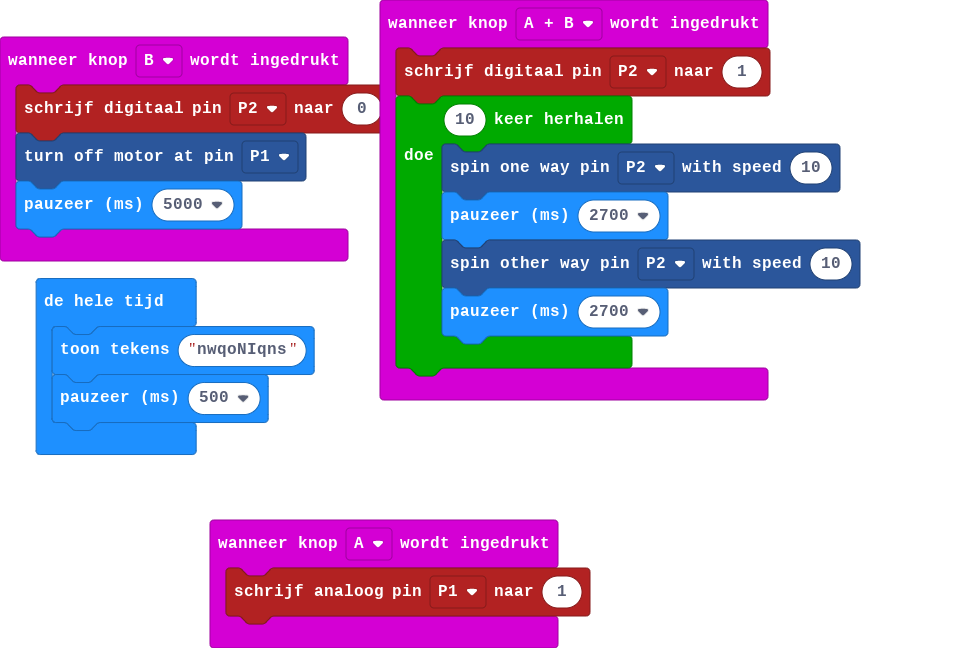
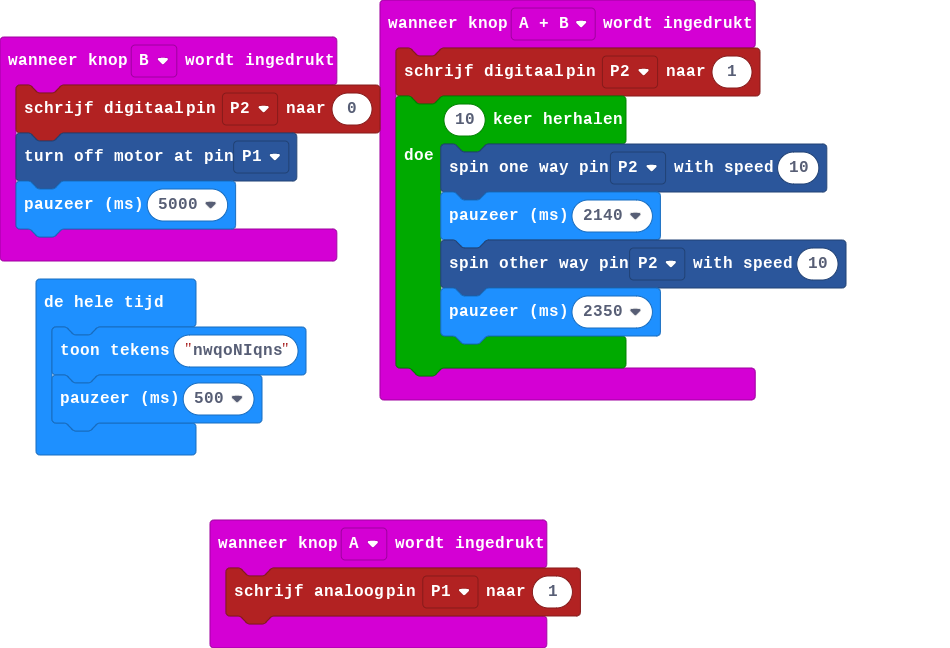
main.blocks, main.ts bijwerken

diff --git a/main.ts b/main.ts
@@ -5,9 +5,9 @@ input.onButtonPressed(Button.AB, function () {
     pins.digitalWritePin(DigitalPin.P2, 1)
     for (let index = 0; index < 10; index++) {
         ContinuousServo.spin_one_way_with_speed(AnalogPin.P2, 10)
-        basic.pause(2700)
+        basic.pause(2140)
         ContinuousServo.spin_other_way_with_speed(AnalogPin.P2, 10)
-        basic.pause(2700)
+        basic.pause(2350)
     }
 })
 input.onButtonPressed(Button.B, function () {
